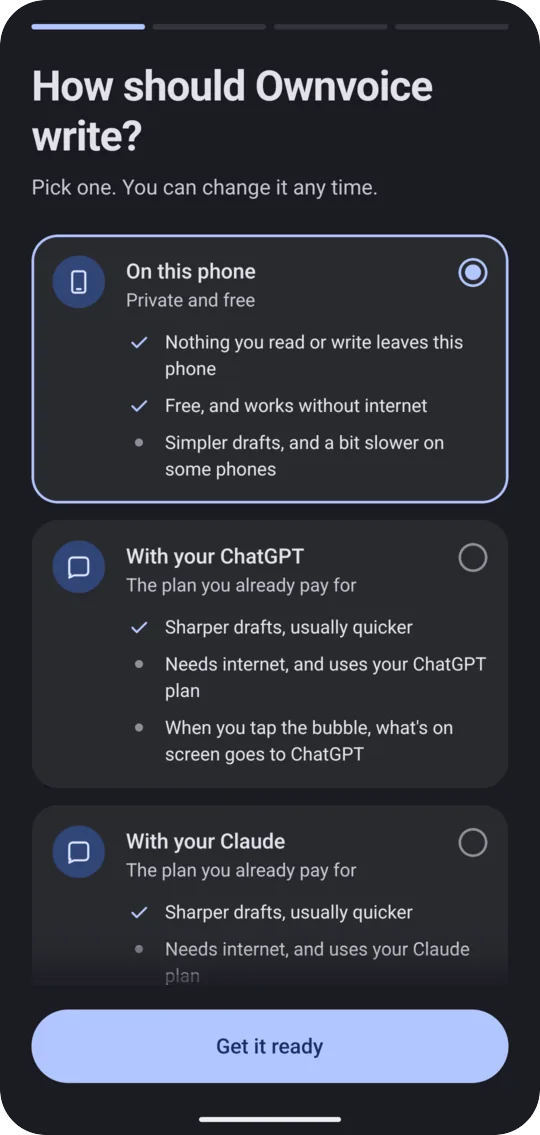
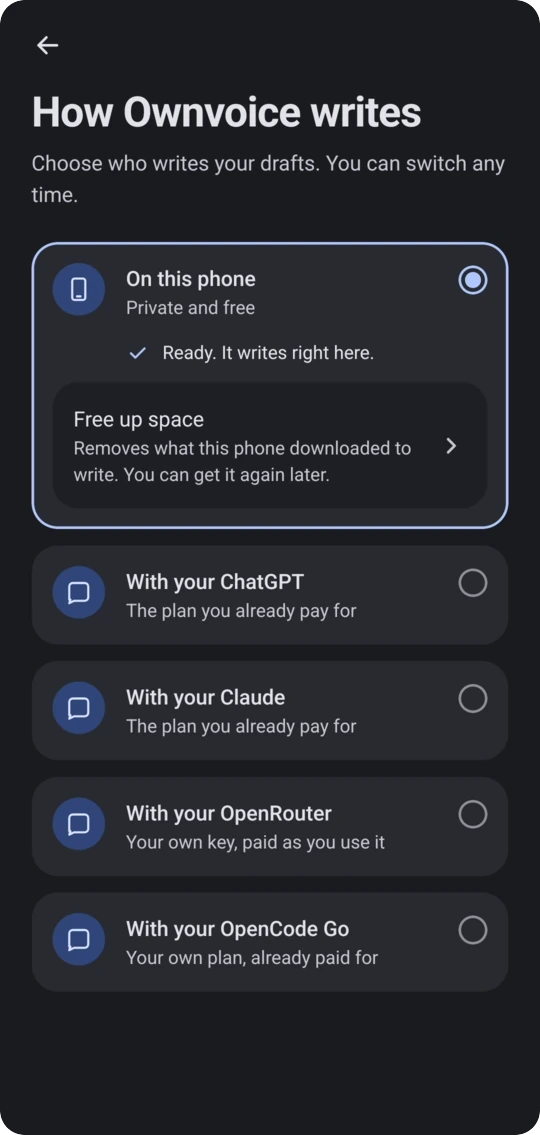
docs: fix the README below the first screen for phone and desktop readers
- What you get: four frames in a two-by-two grid of same-size 540x1135 phone
  frames (48% each, borderless, caption line under each row, each frame links
  to its full-size file), instead of one full-width frame per row, so the
  page stays short on desktop. The layout table with cell borders that
  shrank the frames to 135px on a phone is gone, and the frame-only Speak
  capture and the half-empty Use my computer capture with it: both features
  are named in the sentence under the grid.
- Drop the practice-chat loop from Why Ownvoice: its frames spend most of
  the loop on loading placeholders, and the finished Polish your message
  sheet it ends on is already the first frame of the grid below.
- Make the comparison table two columns of lead words, so cells no longer
  wrap to one word per line at 390.
- Turn the Proof table into a list: at 390 its narrow link column and
  wrapped header read as noise.
- Split the eval command into short lines, so no line is cut off mid-token
  under the copy button at 390.
- Replace the writer capture, whose sticky Get it ready button covered the
  last line of the Claude card, with a current real capture of the same
  screen, cut under OpenCode Go so no text is clipped, and padded to the
  set's 540x1135 frame, in both themes.
- Drop the emoji bullets in More, whose widths left the list ragged.

diff --git a/README.md b/README.md
@@ -54,90 +54,65 @@ Step-by-step help for every screen is in the [user guide](docs/readme/guide.md#g
 
 ## Why Ownvoice
 
-| | Doing it by hand | With Ownvoice |
-| --- | --- | --- |
-| Catching slips | Read it again, and miss the "shoud" anyway | The panel marks the slip and offers the fix |
-| Trimming filler | Delete, retype, delete again | **Shorter** gives back the same points in fewer words |
-| Asking a chatbot to rewrite | Copy out, paste in, copy back, paste in | Never leaves the chat: **Insert** puts it in your box |
-| What it costs | A writing tool per seat, per month | Free on your phone, or the plan you already pay for |
-| What leaves your phone | — | Nothing, with **On this phone**. Nothing is sent unless you tap |
+| Doing it by hand | With Ownvoice |
+| --- | --- |
+| **Slips:** reread it, still miss the "shoud" | **Slips:** marked, one tap to fix |
+| **Filler:** delete, retype, delete again | **Shorter:** same points, fewer words |
+| **Rewriting:** copy out, paste in, copy back | **Insert:** it never leaves the chat |
+| **Cost:** a writing tool per seat, each month | Free on your phone, or the plan you pay for |
+| **Your words:** pasted into another app | Nothing leaves with **On this phone** |
 
 - **It never sends, posts or taps anything for you.** You read the version and press Send.
 - **It only reads when you tap.** The bubble shows in the apps you switch on, and **What Ownvoice read** lists every tap, without your text.
 - **It writes with what you already have.** Your phone, or the ChatGPT, Claude, OpenRouter or OpenCode Go plan you pay for, or the Claude on your own computer.
 
-<p align="center">
-  <picture>
-    <source media="(prefers-color-scheme: dark)" srcset="docs/readme/panel-loop-dark.webp" />
-    <img src="docs/readme/panel-loop-light.webp" width="300" alt="A loop from the practice chat: the panel writes, then offers a Cleaned up line that fixes dont and shoud, and a Shorter line without the stock phrase" />
-  </picture><br />
-  <sub>A real run in the practice chat: it writes, then hands you a tidied line and a shorter one.</sub>
-</p>
-
 ## What you get
 
-<table>
-  <tr>
-    <td align="center" width="50%">
-      <picture>
-        <source media="(prefers-color-scheme: dark)" srcset="docs/readme/polish-dark.webp" />
-        <img src="docs/readme/polish-light.webp" width="100%" alt="Polish your message: Cleaned up fixes dont and shoud, while Shorter rewrites the reply without the highlighted stock phrase" />
-      </picture>
-      <br /><strong>Polish what you wrote</strong><br />Fix slips. Trim filler with Shorter.
-    </td>
-    <td align="center" width="50%">
-      <img src="docs/readme/reply-cards-light.webp" width="100%" alt="Suggested replies · X: Push back, kindly and Ask a question cards, each with Insert, Edit and Why?, and notes on how it reads on X" />
-      <br /><strong>Reply ideas on X</strong><br />Cards rated for the platform.
-    </td>
-  </tr>
-  <tr>
-    <td align="center" width="50%">
-      <picture>
-        <source media="(prefers-color-scheme: dark)" srcset="docs/readme/rewrite-dark.webp" />
-        <img src="docs/readme/rewrite-light.webp" width="100%" alt="Make it better: a selected sentence and its shorter version, with buttons for Shorter, Simpler, Fix spelling, Friendlier and Firmer" />
-      </picture>
-      <br /><strong>Make any text better</strong><br />Select text, choose Ownvoice.
-    </td>
-    <td align="center" width="50%">
-      <img src="docs/readme/speak-light.webp" width="100%" alt="Polish your message with the mic row, Listen, above your own text while new versions are being written" />
-      <br /><strong>Speak instead of typing</strong><br />Tap Listen and talk.
-    </td>
-  </tr>
-  <tr>
-    <td align="center" width="50%">
-      <picture>
-        <source media="(prefers-color-scheme: dark)" srcset="docs/readme/writer-dark.webp" />
-        <img src="docs/readme/writer-light.webp" width="100%" alt="How should Ownvoice write? On this phone, private and free, or with an AI plan you already pay for" />
-      </picture>
-      <br /><strong>Choose who writes</strong><br />On your phone, or your own plan.
-    </td>
-    <td align="center" width="50%">
-      <img src="docs/readme/computer-light.webp" width="100%" alt="Use my computer: your computer writes the drafts with your own Claude. Paste the code your computer shows, then Pair" />
-      <br /><strong>Use my computer</strong><br />Your computer's Claude writes.
-    </td>
-  </tr>
-</table>
+<p align="center">
+  <a href="docs/readme/polish-light.webp"><picture>
+    <source media="(prefers-color-scheme: dark)" srcset="docs/readme/polish-dark.webp" />
+    <img src="docs/readme/polish-light.webp" width="48%" alt="Polish your message: Cleaned up fixes dont and shoud, while Shorter rewrites the reply without the highlighted stock phrase" />
+  </picture></a>
+  <a href="docs/readme/reply-cards-light.webp"><img src="docs/readme/reply-cards-light.webp" width="48%" alt="Suggested replies · X: Push back, kindly and Ask a question cards, each with Insert, Edit and Why?, and notes on how it reads on X" /></a><br />
+  <sub><strong>Polish what you wrote</strong>: fix slips, trim filler with <strong>Shorter</strong>. &nbsp;&middot;&nbsp; <strong>Reply ideas on X</strong>: cards rated for the platform.</sub>
+</p>
 
-It also learns the words you never say and how you like to write, turns raw notes into posts, and
-follows your phone's colours, font, light and dark ([every screen](docs/readme/guide.md#everything-in-one-place)).
+<p align="center">
+  <a href="docs/readme/rewrite-light.webp"><picture>
+    <source media="(prefers-color-scheme: dark)" srcset="docs/readme/rewrite-dark.webp" />
+    <img src="docs/readme/rewrite-light.webp" width="48%" alt="Make it better: a selected sentence and its shorter version, with buttons for Shorter, Simpler, Fix spelling, Friendlier and Firmer" />
+  </picture></a>
+  <a href="docs/readme/writer-light.webp"><picture>
+    <source media="(prefers-color-scheme: dark)" srcset="docs/readme/writer-dark.webp" />
+    <img src="docs/readme/writer-light.webp" width="48%" alt="How Ownvoice writes: choose who writes your drafts, on this phone, private and free, or with the ChatGPT, Claude, OpenRouter or OpenCode Go plan you already pay for" />
+  </picture></a><br />
+  <sub><strong>Make any text better</strong>: select text, choose Ownvoice. &nbsp;&middot;&nbsp; <strong>Choose who writes</strong>: your phone, or your own plan.</sub>
+</p>
+
+It also speaks instead of typing when you tap **Listen**, writes from your own computer, learns the
+words you never say and how you like to write, turns raw notes into posts, and follows your phone's
+colours, font, light and dark ([every screen](docs/readme/guide.md#everything-in-one-place)).
 
 ## Proof
 
 Ownvoice is new, so there are no quotes or customer logos to show you yet. Here is what you can check yourself today.
 
-| What | Where to check it |
-| --- | --- |
-| Eleven releases in 24 days, v1.0.2 on 1 Oct 2026 to v1.0.10 on 24 Oct 2026 | [All releases](https://github.com/umeranjum17/ownvoice/releases) |
-| Every release ships `Ownvoice.apk` next to its `Ownvoice.apk.sha256`, so you can check the file you installed | [v1.0.10](https://github.com/umeranjum17/ownvoice/releases/tag/v1.0.10) |
-| A model or prompt change has to pass the writer evaluation gate: the cases P01, P13, S05, R01, R07, R13, R14, P20 and N01 | [mobile/eval](mobile/eval/README.md) |
-| The writing core is published as a package you can use: `ownvoice-engine` 0.2.0, on npm since 22 Oct 2026 | [npm](https://www.npmjs.com/package/ownvoice-engine) |
-| Every screenshot on this page is an unedited capture of the real app, on a demo phone with demo text | [docs/readme](docs/readme) |
+- **Eleven releases in 24 days**, v1.0.2 on 1 Oct 2026 to v1.0.10 on 24 Oct 2026: [all releases](https://github.com/umeranjum17/ownvoice/releases).
+- **Every release ships `Ownvoice.apk` next to its `Ownvoice.apk.sha256`**, so you can check the file you installed: [v1.0.10](https://github.com/umeranjum17/ownvoice/releases/tag/v1.0.10).
+- **A model or prompt change has to pass the writer evaluation gate**, the cases P01, P13, S05, R01, R07, R13, R14, P20 and N01: [mobile/eval](mobile/eval/README.md).
+- **The writing core is published as a package you can use**, `ownvoice-engine` 0.2.0, on npm since 22 Oct 2026: [npm](https://www.npmjs.com/package/ownvoice-engine).
+- **Every screenshot on this page is an unedited capture of the real app**, on a demo phone with demo text: [docs/readme](docs/readme).
 
 Rerun the gate yourself from a copy of this repo:
 
 ```sh
-cd mobile/eval && EVAL_BACKEND=codex-cli ONLY=P01,P13,S05,R01,R07,R13,R14,P20,N01 \
-  node run.ts gate http://unused out/gate.json && node score.ts out/gate.json
+cd mobile/eval
+export EVAL_BACKEND=codex-cli
+export ONLY=P01,P13,S05,\
+R01,R07,R13,R14,P20,N01
+node run.ts gate \
+http://unused out/gate.json
+node score.ts out/gate.json
 ```
 
 With a local model server the same command runs the phone writer itself; the backend above runs the
@@ -162,12 +137,12 @@ come from feed apps with a readable post above the box.
 
 ## More
 
-- 📖 [User guide](docs/readme/guide.md): every screen and every check, in detail
-- 🧭 [Vision](VISION.md): who Ownvoice is for and where it is going
-- 🌱 <a id="your-growth"></a>[Your growth](docs/readme/guide.md#your-growth): keep track on your phone
-- 🛠 [Android app](mobile/README.md): build it, test it, and how it writes
-- 🧩 [Writing core](packages/engine/README.md) and its [quality gate](mobile/eval/README.md)
-- 🎨 [Icons](docs/icons/README.md) · 📦 [All releases](https://github.com/umeranjum17/ownvoice/releases)
+- [User guide](docs/readme/guide.md): every screen and every check, in detail
+- [Vision](VISION.md): who Ownvoice is for and where it is going
+- [Your growth](docs/readme/guide.md#your-growth): keep track on your phone
+- [Android app](mobile/README.md): build it, test it, and how it writes
+- [Writing core](packages/engine/README.md) and its [quality gate](mobile/eval/README.md)
+- [Icons](docs/icons/README.md) and [all releases](https://github.com/umeranjum17/ownvoice/releases)
 - The original Kotlin app lives in [app/](app/README.md)
 
 ## Contributing
